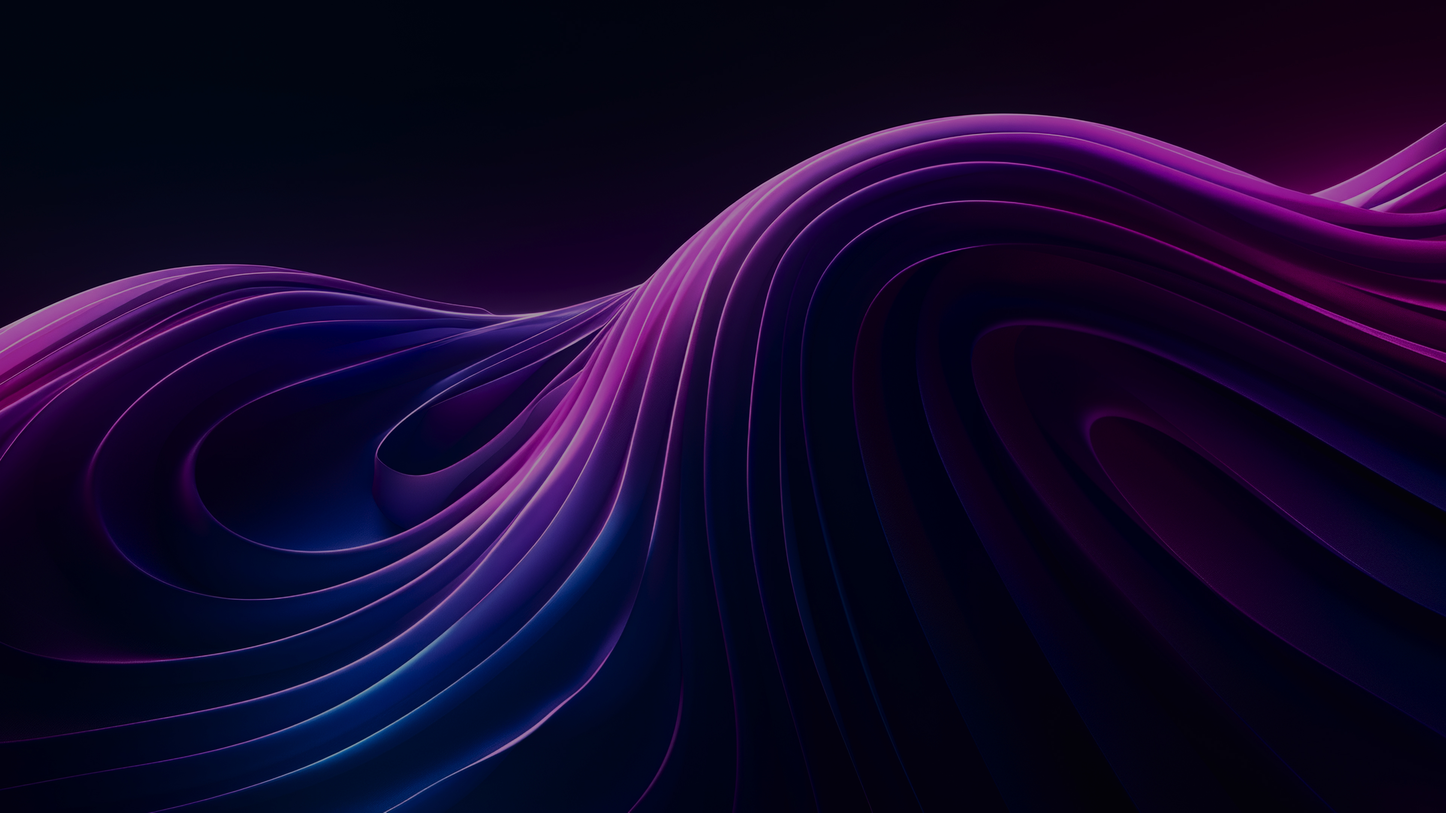
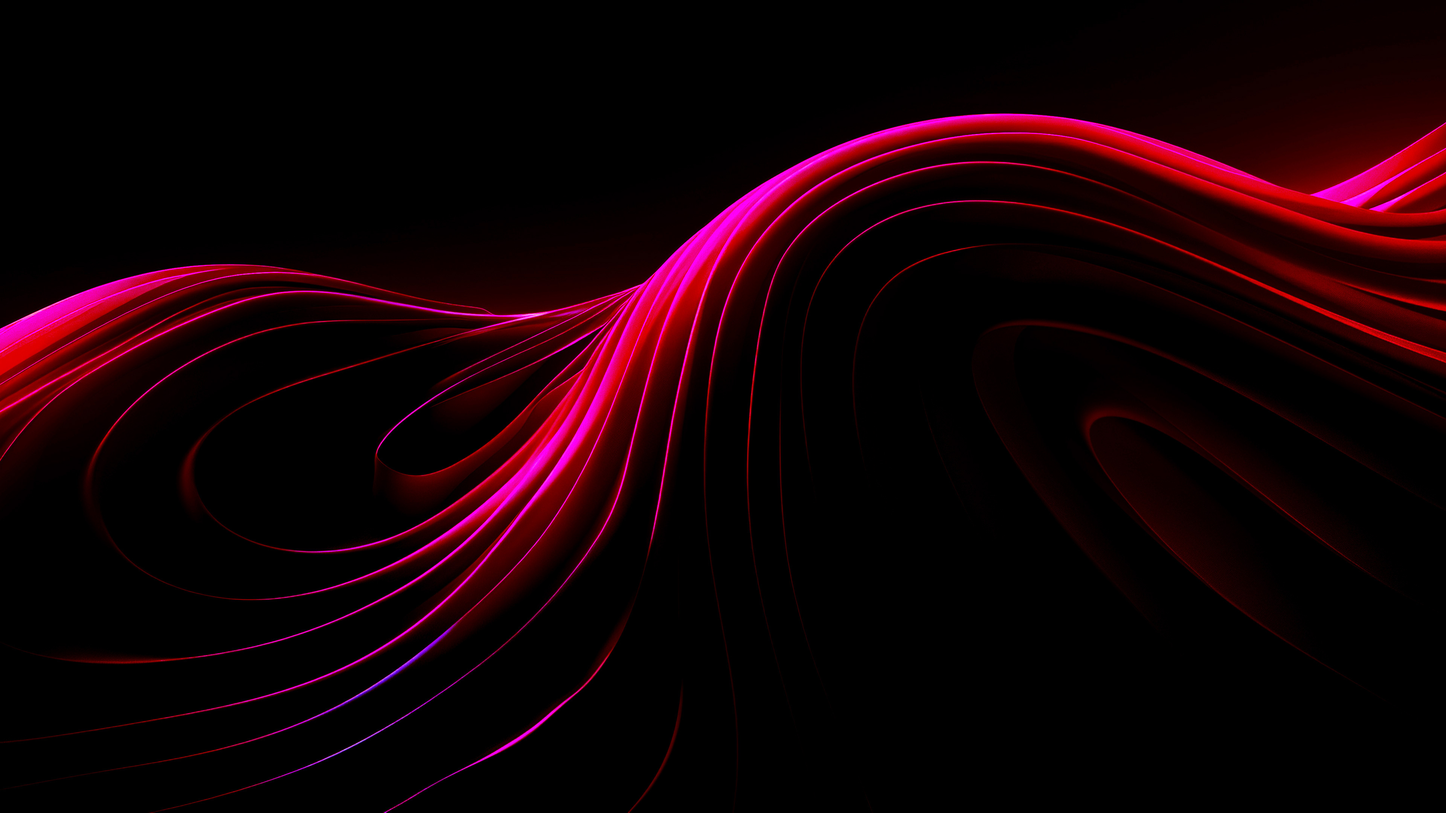
[AAP-58355] Remove the requireApproval checkbox from the trigger node (#63)
* Remove the requireApproval checkbox from the trigger node

* Update the background to red

* Update the background to red

diff --git a/packages/nexus-ui/src/routes/builder/node-forms/TriggerNodeForm.test.tsx b/packages/nexus-ui/src/routes/builder/node-forms/TriggerNodeForm.test.tsx
@@ -44,10 +44,10 @@ describe('TriggerNodeForm Component', () => {
       render(<TriggerNodeForm onSubmit={mockOnSubmit} onCancel={mockOnCancel} />)
 
       expect(screen.getByLabelText('Trigger Type')).toHaveValue('manual')
-      expect(screen.getByLabelText('Requires Approval')).toBeInTheDocument()
+      expect(screen.queryByLabelText('Requires Approval')).not.toBeInTheDocument()
     })
 
-    it('submits manual trigger without approval', async () => {
+    it('submits manual trigger', async () => {
       const user = userEvent.setup()
       render(<TriggerNodeForm onSubmit={mockOnSubmit} onCancel={mockOnCancel} />)
 
@@ -55,22 +55,6 @@ describe('TriggerNodeForm Component', () => {
 
       expect(mockOnSubmit).toHaveBeenCalledWith({
         triggerType: 'manual',
-        requiresApproval: false,
-        scheduleType: undefined,
-        interval: undefined,
-      })
-    })
-
-    it('submits manual trigger with approval when checked', async () => {
-      const user = userEvent.setup()
-      render(<TriggerNodeForm onSubmit={mockOnSubmit} onCancel={mockOnCancel} />)
-
-      await user.click(screen.getByLabelText('Requires Approval'))
-      await user.click(screen.getByRole('button', { name: 'Add node' }))
-
-      expect(mockOnSubmit).toHaveBeenCalledWith({
-        triggerType: 'manual',
-        requiresApproval: true,
         scheduleType: undefined,
         interval: undefined,
       })
@@ -79,13 +63,11 @@ describe('TriggerNodeForm Component', () => {
     it('renders with initial manual trigger data', () => {
       const initialData = {
         triggerType: 'manual',
-        requiresApproval: true,
       }
 
       render(<TriggerNodeForm onSubmit={mockOnSubmit} onCancel={mockOnCancel} initialData={initialData} />)
 
       expect(screen.getByLabelText('Trigger Type')).toHaveValue('manual')
-      expect(screen.getByLabelText('Requires Approval')).toBeChecked()
     })
   })
 
@@ -129,7 +111,6 @@ describe('TriggerNodeForm Component', () => {
 
       expect(mockOnSubmit).toHaveBeenCalledWith({
         triggerType: 'scheduled',
-        requiresApproval: undefined,
         scheduleType: 'interval',
         interval: 'R/2024-01-01T10:00:00Z/P1D',
       })
@@ -145,7 +126,6 @@ describe('TriggerNodeForm Component', () => {
 
       expect(mockOnSubmit).toHaveBeenCalledWith({
         triggerType: 'scheduled',
-        requiresApproval: undefined,
         scheduleType: 'continuous',
         interval: undefined,
       })
@@ -205,7 +185,6 @@ describe('TriggerNodeForm Component', () => {
 
       expect(mockOnSubmit).toHaveBeenCalledWith({
         triggerType: 'manual',
-        requiresApproval: false,
         scheduleType: undefined,
         interval: undefined,
       })

diff --git a/packages/nexus-ui/src/routes/builder/node-forms/TriggerNodeForm.tsx b/packages/nexus-ui/src/routes/builder/node-forms/TriggerNodeForm.tsx
@@ -1,7 +1,6 @@
 import {
   Button,
   Card,
-  Checkbox,
   Controller,
   DateRangeCadencePicker,
   Form,
@@ -12,7 +11,6 @@ import {
 
 export interface TriggerFormData {
   triggerType: string
-  requiresApproval?: boolean
   scheduleType?: string
   interval?: string
 }
@@ -40,16 +38,6 @@ function TriggerFormFields({ submitButtonText }: { submitButtonText?: string }) 
           <option value="scheduled">Scheduled</option>
         </NativeSelect>
       </div>
-
-      {triggerType === 'manual' && (
-        <Controller
-          control={control}
-          name="requiresApproval"
-          render={({ field }) => (
-            <Checkbox checked={field.value} onCheckedChange={field.onChange} label="Requires Approval" />
-          )}
-        />
-      )}
 
       {triggerType === 'scheduled' && (
         <>
@@ -85,7 +73,6 @@ function TriggerFormFields({ submitButtonText }: { submitButtonText?: string }) 
 export function TriggerNodeForm(props: TriggerNodeFormProps) {
   const defaultValues: TriggerFormData = {
     triggerType: 'manual',
-    requiresApproval: false,
     scheduleType: 'interval',
     interval: '',
     ...props.initialData,
@@ -94,7 +81,6 @@ export function TriggerNodeForm(props: TriggerNodeFormProps) {
   const handleSubmit = (data: TriggerFormData) => {
     const cleanedData: TriggerFormData = {
       triggerType: data.triggerType,
-      requiresApproval: data.triggerType === 'manual' ? data.requiresApproval : undefined,
       scheduleType: data.triggerType === 'scheduled' ? data.scheduleType : undefined,
       interval: data.triggerType === 'scheduled' && data.scheduleType === 'interval' ? data.interval : undefined,
     }

diff --git a/packages/nexus-ui/src/routes/builder/node-details/TriggerNodeDetails.test.tsx b/packages/nexus-ui/src/routes/builder/node-details/TriggerNodeDetails.test.tsx
@@ -13,9 +13,9 @@ vi.mock('../../../stores/useWorkflowStore', () => ({
     }
     return selector ? selector(store) : store
   }),
-  createManualTrigger: vi.fn((requiresApproval?: boolean) => ({
+  createManualTrigger: vi.fn(() => ({
     type: 'manual',
-    requiresApproval: requiresApproval ?? false,
+    requiresApproval: false,
   })),
   createScheduledTrigger: vi.fn((scheduleType: 'interval' | 'continuous', options?: { interval?: string }) => ({
     type: 'scheduled',
@@ -84,23 +84,6 @@ describe('TriggerNodeDetails Component', () => {
       expect(screen.getByTestId('initial-data')).toHaveTextContent(
         JSON.stringify({
           triggerType: 'manual',
-          requiresApproval: false,
-        })
-      )
-    })
-
-    it('renders TriggerNodeForm with manual trigger requiring approval', () => {
-      const trigger = {
-        type: 'manual' as const,
-        requiresApproval: true,
-      }
-
-      render(<TriggerNodeDetails trigger={trigger} triggerIndex={0} onClose={mockOnClose} />)
-
-      expect(screen.getByTestId('initial-data')).toHaveTextContent(
-        JSON.stringify({
-          triggerType: 'manual',
-          requiresApproval: true,
         })
       )
     })

diff --git a/packages/nexus-ui/src/routes/builder/node-details/TriggerNodeDetails.tsx b/packages/nexus-ui/src/routes/builder/node-details/TriggerNodeDetails.tsx
@@ -25,7 +25,6 @@ export function TriggerNodeDetails({ trigger, triggerIndex, onClose }: TriggerNo
     if (trigger.type === 'manual') {
       return {
         triggerType: 'manual',
-        requiresApproval: trigger.requiresApproval,
       }
     }
 
@@ -57,7 +56,7 @@ export function TriggerNodeDetails({ trigger, triggerIndex, onClose }: TriggerNo
       let updatedTrigger: Trigger
 
       if (data.triggerType === 'manual') {
-        updatedTrigger = createManualTrigger(data.requiresApproval)
+        updatedTrigger = createManualTrigger()
       } else if (data.triggerType === 'scheduled') {
         updatedTrigger = createScheduledTrigger(data.scheduleType as 'interval' | 'continuous', {
           interval: data.interval,

diff --git a/packages/nexus-ui/src/routes/builder/hooks/useNodeCreation.ts b/packages/nexus-ui/src/routes/builder/hooks/useNodeCreation.ts
@@ -12,7 +12,6 @@ import {
 export interface TriggerFormData {
   name: string
   triggerType: string
-  requiresApproval?: boolean
   scheduleType?: string
   cron?: string
   timezone?: string
@@ -43,7 +42,7 @@ export function useNodeCreation(onSuccess: () => void) {
       let trigger
 
       if (data.triggerType === 'manual') {
-        trigger = createManualTrigger(data.requiresApproval)
+        trigger = createManualTrigger()
       } else if (data.triggerType === 'scheduled' && data.scheduleType) {
         trigger = createScheduledTrigger(data.scheduleType as 'cron' | 'interval' | 'continuous', {
           cron: data.cron,

diff --git a/packages/nexus-ui/src/routes/builder/registry/nodes/registerTriggerNode.ts b/packages/nexus-ui/src/routes/builder/registry/nodes/registerTriggerNode.ts
@@ -32,7 +32,7 @@ export default function registerTriggerNode() {
           let trigger
 
           if (data.triggerType === 'manual') {
-            trigger = createManualTrigger(data.requiresApproval)
+            trigger = createManualTrigger()
           } else if (data.triggerType === 'scheduled' && data.scheduleType) {
             trigger = createScheduledTrigger(data.scheduleType as 'cron' | 'interval' | 'continuous', {
               cron: data.cron,
